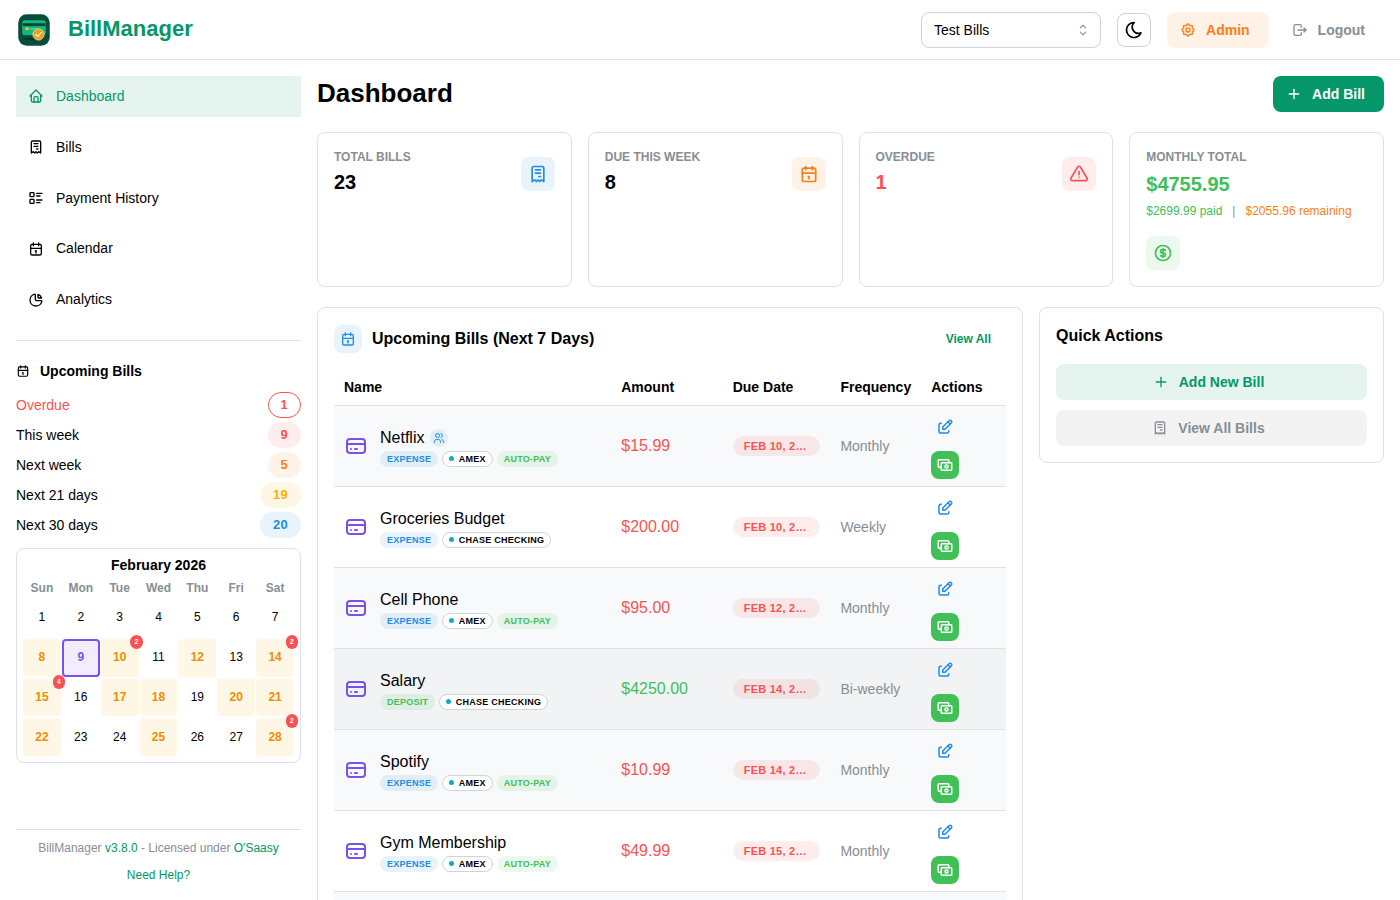
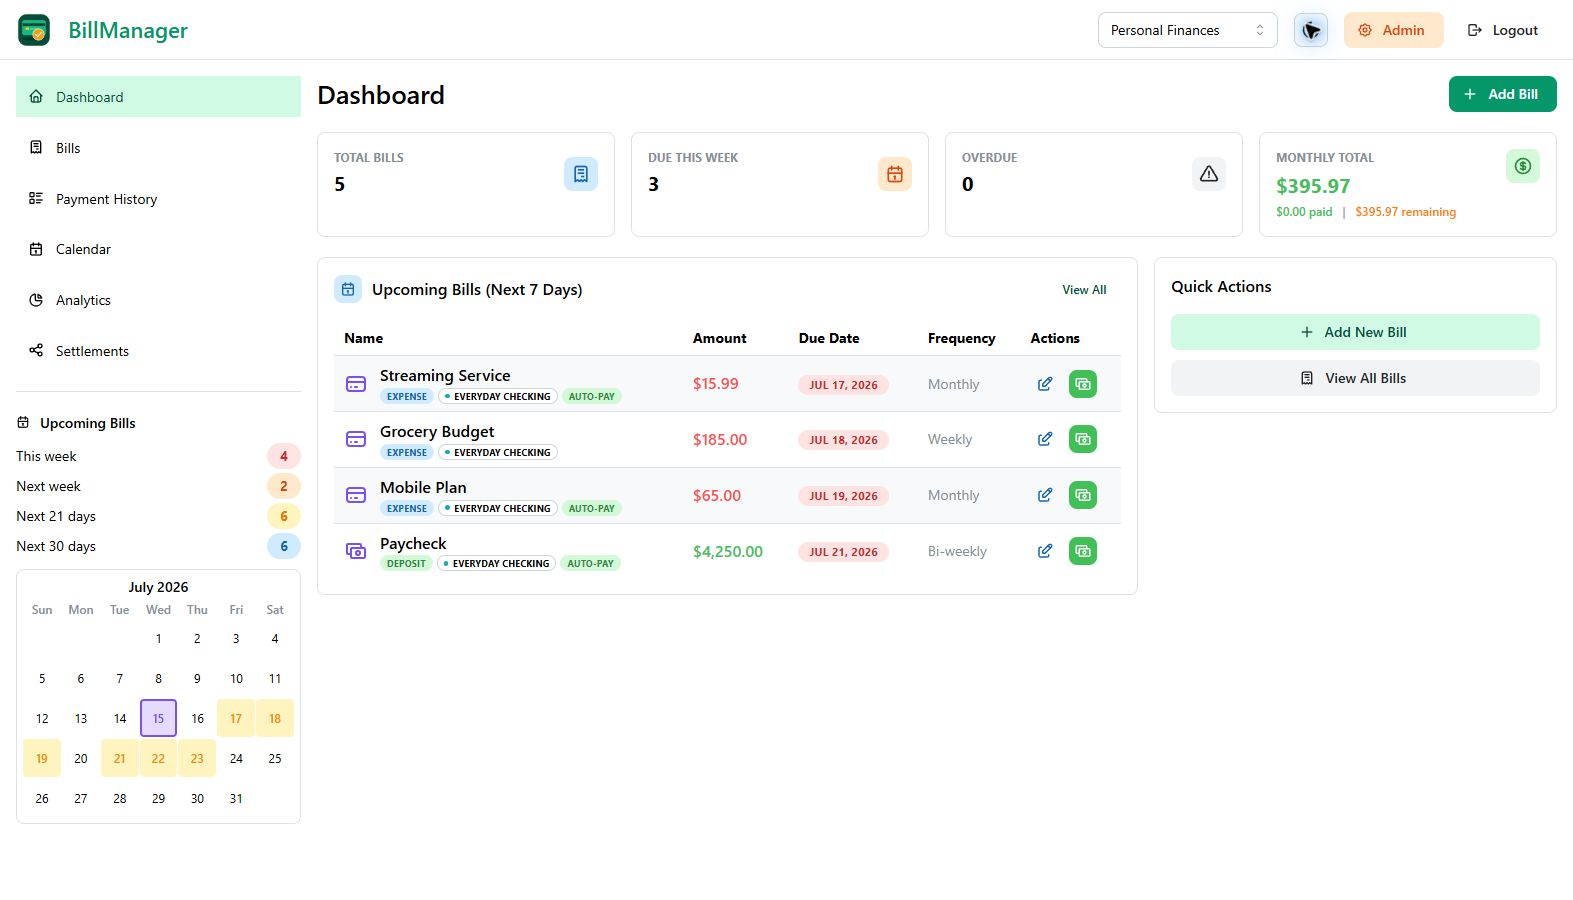
docs: refresh README dashboard screenshots (#65)

Pull request: docs: refresh README dashboard screenshots

diff --git a/README.md b/README.md
@@ -2,7 +2,11 @@
 
 A **secure multi-user** web application for tracking recurring expenses and income with **complete data separation**. Built with React + Mantine frontend and Flask + PostgreSQL backend.
 
-![BillManager Screenshot](screenshot.png)
+### Dashboard
+
+![BillManager dashboard in light mode](screenshot.png)
+
+![BillManager dashboard in dark mode](screenshot-dark.png)
 
 ---
 